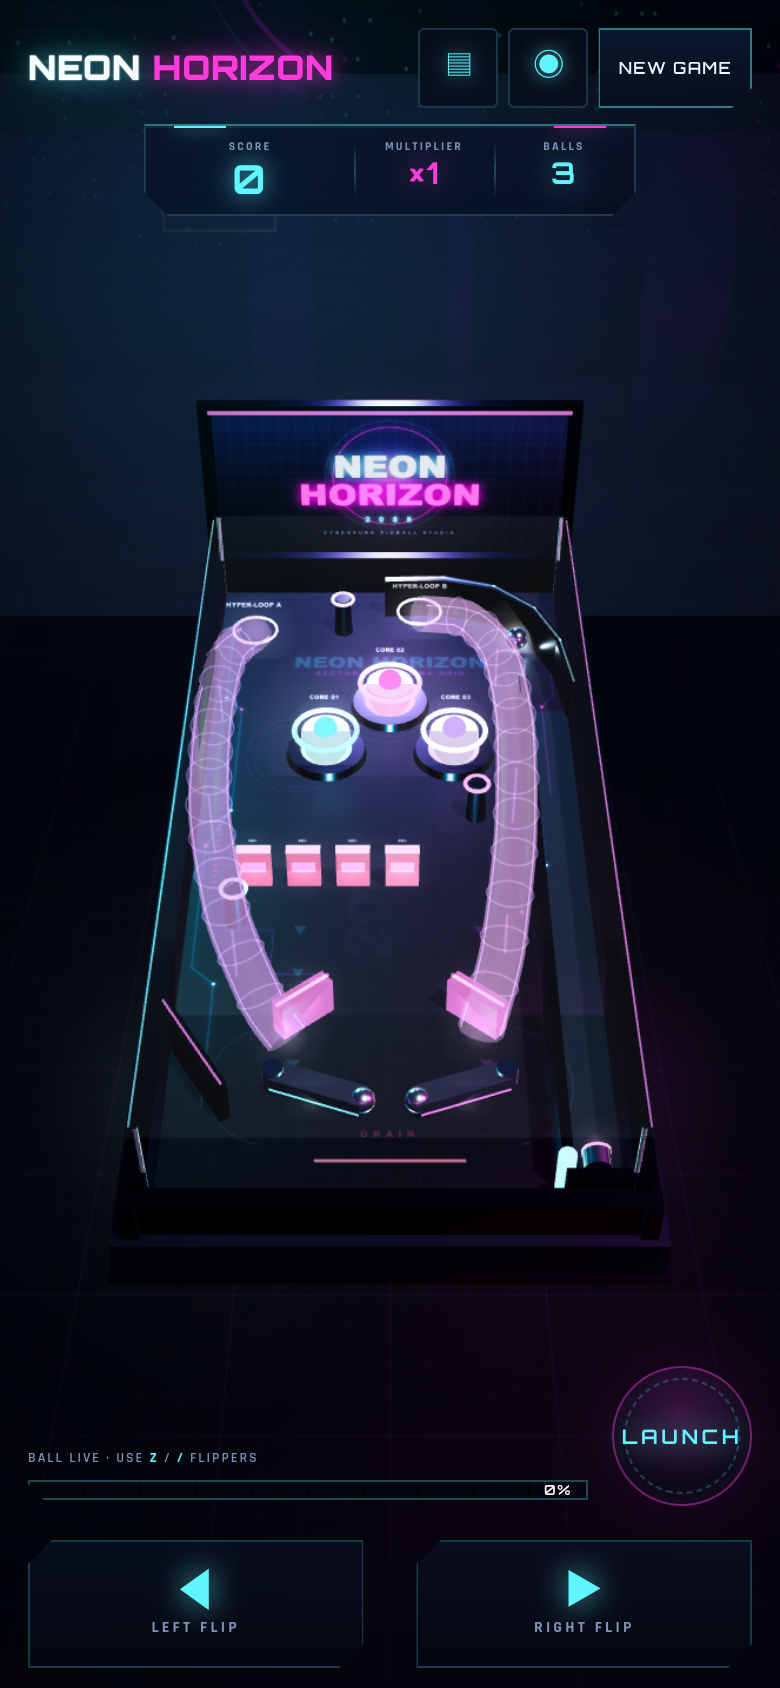
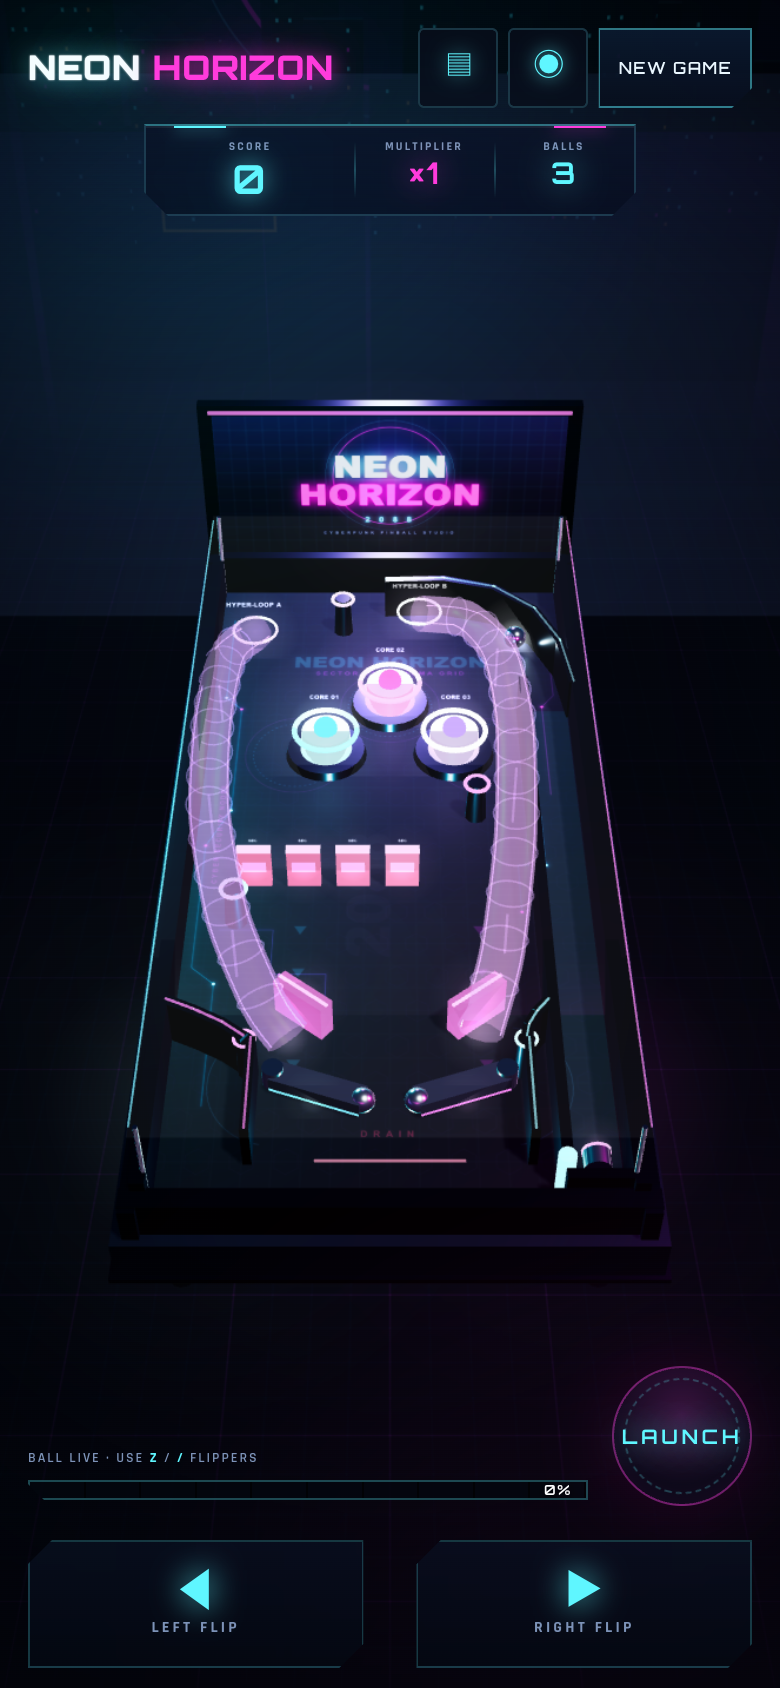
Rebuild lower playfield with bouncy walls and return guides

diff --git a/script.js b/script.js
@@ -1607,7 +1607,10 @@
       tableGroup.add(strip);
     }
 
-    // Outlane funnels toward the drain
+    // Lower side return guides. These replace the old outlane funnels: a ball
+    // coming down the side wall is deflected back toward the flippers instead
+    // of being escorted straight to the drain. The rounded end posts keep the
+    // guide from forming a sharp pinch point.
     function angledWall(x1, z1, x2, z2, color) {
       var dx = x2 - x1, dz = z2 - z1;
       var len = Math.sqrt(dx * dx + dz * dz);
@@ -1618,8 +1621,49 @@
       strip.rotation.y = ang;
       tableGroup.add(strip);
     }
-    angledWall(-5.0, 6.25, -3.55, 8.55, 0xff3bdc);
-    // The right-hand shooter lane divider already forms this side of the playfield.
+
+    function returnPost(x, z, color) {
+      var post = new THREE.Mesh(new THREE.CylinderGeometry(0.18, 0.21, 1.15, 12), MAT.chassisEdge);
+      post.position.set(x, 0.575, z);
+      addMesh(post);
+      var ring = new THREE.Mesh(new THREE.TorusGeometry(0.23, 0.04, 8, 18), neonMaterial(color, 1.9));
+      ring.rotation.x = Math.PI / 2;
+      ring.position.set(x, 1.16, z);
+      addMesh(ring, false, false);
+      var body = new CANNON.Body({ mass: 0, material: phys.wall });
+      addUprightCylinder(body, 0.18, 0.21, 1.15, 12);
+      body.position.set(x, 0.575, z);
+      body.userData = { kind: "wall" };
+      world.addBody(body);
+    }
+
+    function returnGuide(points, color) {
+      for (var i = 0; i < points.length - 1; i++) {
+        var a = points[i], b = points[i + 1];
+        angledWall(a[0], a[1], b[0], b[1], color);
+      }
+      var end = points[points.length - 1];
+      returnPost(end[0], end[1], color);
+    }
+
+    returnGuide([
+      [-4.95, 6.2], [-4.3, 6.5], [-3.65, 6.86], [-3.15, 7.25]
+    ], 0xff3bdc);
+    returnGuide([
+      [3.5, 6.2], [3.22, 6.55], [3.02, 6.92], [2.95, 7.25]
+    ], 0x5ff6ff);
+
+    // Seal the narrow outlane beside each flipper. The channel between this
+    // rail and the flipper pivot is narrower than a ball, so side drains are
+    // eliminated; the only way down is through the centre flipper gap.
+    function sideSeal(x, color) {
+      wall(0.1, 1.225, x, 8.475, 0, MAT.chassisEdge);
+      var strip = new THREE.Mesh(new THREE.BoxGeometry(0.05, 0.045, 2.4), pureNeon(color, 0.72));
+      strip.position.set(x, 1.26, 8.475);
+      tableGroup.add(strip);
+    }
+    sideSeal(-3.0, 0xff3bdc);
+    sideSeal(3.0, 0x5ff6ff);
 
     // Shooter lane bottom neon accent
     var laneBottom = new THREE.Mesh(new THREE.BoxGeometry(1.5, 0.06, 0.06), pureNeon(0xff3bdc, 0.8));
@@ -1639,7 +1683,7 @@
       addMesh(ring, false, false);
 
       var body = new CANNON.Body({ mass: 0, material: phys.wall });
-      body.addShape(new CANNON.Cylinder(0.27, 0.3, 1.15, 12));
+      addUprightCylinder(body, 0.27, 0.3, 1.15, 12);
       body.position.set(p[0], 0.575, p[1]);
       body.userData = { kind: "wall" };
       world.addBody(body);
@@ -1679,8 +1723,8 @@
     phys.sling = new CANNON.Material("sling");
 
     world.addContactMaterial(new CANNON.ContactMaterial(phys.ball, phys.table, { friction: 0.04, restitution: 0.16 }));
-    world.addContactMaterial(new CANNON.ContactMaterial(phys.ball, phys.wall, { friction: 0.0, restitution: 0.62 }));
-    world.addContactMaterial(new CANNON.ContactMaterial(phys.ball, phys.bumper, { friction: 0.0, restitution: 0.9 }));
+    world.addContactMaterial(new CANNON.ContactMaterial(phys.ball, phys.wall, { friction: 0.0, restitution: 0.8 }));
+    world.addContactMaterial(new CANNON.ContactMaterial(phys.ball, phys.bumper, { friction: 0.0, restitution: 0.92 }));
     world.addContactMaterial(new CANNON.ContactMaterial(phys.ball, phys.flipper, { friction: 0.04, restitution: 0.48 }));
     world.addContactMaterial(new CANNON.ContactMaterial(phys.ball, phys.target, { friction: 0.0, restitution: 0.4 }));
     world.addContactMaterial(new CANNON.ContactMaterial(phys.ball, phys.sling, { friction: 0.0, restitution: 0.65 }));
@@ -1691,6 +1735,14 @@
     floorBody.position.set(0, -0.3, 0);
     floorBody.userData = { kind: "table" };
     world.addBody(floorBody);
+
+    // The visual glass top is also a real ceiling. It keeps a hard flipper or
+    // bumper pop from launching the ball over the side rails and off the table.
+    var ceilingBody = new CANNON.Body({ mass: 0, material: phys.wall });
+    ceilingBody.addShape(new CANNON.Box(new CANNON.Vec3(5.1, 0.08, 11.0)));
+    ceilingBody.position.set(0, 2.8, 0);
+    ceilingBody.userData = { kind: "glass" };
+    world.addBody(ceilingBody);
   }
 
   function addStaticBox(hx, hy, hz, x, y, z, material, rotY, userData) {
@@ -1701,6 +1753,15 @@
     body.userData = userData || { kind: "wall" };
     world.addBody(body);
     return body;
+  }
+
+  // A Cannon.js Cylinder is built along Z. Rotate it so a visual upright post
+  // gets a genuinely upright collider.
+  function addUprightCylinder(body, radiusTop, radiusBottom, height, segments) {
+    var shape = new CANNON.Cylinder(radiusTop, radiusBottom, height, segments || 16);
+    var q = new CANNON.Quaternion();
+    q.setFromAxisAngle(new CANNON.Vec3(1, 0, 0), -Math.PI / 2);
+    body.addShape(shape, new CANNON.Vec3(0, 0, 0), q);
   }
 
   /* ==========================================================================
@@ -1757,7 +1818,7 @@
       group.add(label);
 
       var body = new CANNON.Body({ mass: 0, material: phys.bumper });
-      body.addShape(new CANNON.Cylinder(0.9, 0.9, 1.3, 16));
+      addUprightCylinder(body, 0.9, 0.9, 1.3, 16);
       body.position.set(def.x, 0.65, def.z);
       body.userData = { kind: "bumper", index: index, cooldown: 0 };
       world.addBody(body);
@@ -1958,7 +2019,7 @@
     [-1, 1].forEach(function (side) {
       var x = side * 1.95;
       var z = 5.8;
-      var rot = side * -0.68;
+      var rot = side * 0.68;
       var mat = new THREE.MeshStandardMaterial({
         color: 0x0e1422,
         emissive: 0xff2bd6,
@@ -1999,14 +2060,12 @@
         try { impact = Math.abs(event.contact.getImpactVelocityAlongNormal()); } catch (err) { impact = 1.4; }
         if (impact < 1.0) return;
         sling.cooldown = 0.25;
-        var dx = ball.body.position.x - x;
-        var dz = ball.body.position.z - z;
-        var len = Math.sqrt(dx * dx + dz * dz) || 1;
-        var kick = 0.62 + clamp(impact * 0.025, 0, 0.4);
-        ball.body.applyImpulse(
-          new CANNON.Vec3((dx / len) * kick - side * 0.12, 0.05, (dz / len) * kick + 0.22),
-          new CANNON.Vec3(0, 0, 0)
-        );
+        var inward = side === -1 ? 1 : -1;
+        var kick = 2.9 + clamp(impact * 0.35, 0, 1.8);
+        ball.body.velocity.x = inward * kick + ball.body.velocity.x * 0.15;
+        ball.body.velocity.z = -2.7 - clamp(impact * 0.15, 0, 1.2) + ball.body.velocity.z * 0.15;
+        ball.body.velocity.y = Math.max(ball.body.velocity.y, 0.28);
+        ball.body.angularVelocity.set(ball.body.velocity.z / TABLE.ballR, 0, -ball.body.velocity.x / TABLE.ballR);
         sling.flash = 1;
         game.combo++;
         addScore(120, true);
@@ -2968,8 +3027,12 @@
 
       var outside = p.y < -2.5 || Math.abs(p.x) > 6.4 || p.z > 12.4 || p.z < -12.4;
       var inDrain = p.x < 3.55 && p.z > 9.7 && p.y < 1.6;
-      if (outside || inDrain) {
+      if (inDrain) {
         loseBall();
+      } else if (outside) {
+        // A ball that leaves the cabinet through a seam or over the top is a
+        // table fault, not a drain. Put it back in the railgun without charge.
+        recoverBall("auto");
       } else {
         updateBallRecovery(dt);
       }

diff --git a/STATE.md b/STATE.md
@@ -4,8 +4,8 @@
 | --- | --- |
 | Project | NEON HORIZON 2088 — Cyberpunk 3D Pinball Studio (`neon-horizon-2088`) |
 | Started | 2026-11-01 03:47:45 UTC |
-| Packaged | 2026-11-01 04:49:14 UTC |
-| Duration | **1h 1m 28s** (3,688 seconds) |
+| Packaged | 2026-11-01 05:15:53 UTC |
+| Duration | **1h 28m 7s** (5,287 seconds) |
 | Harness | OpenCode 2.2.5 |
 | Model | DeepSeek V4.1 Flash (`opencode-go/deepseek-v4.1-flash`) |
 | Session | `ses_e6ac7942effe0GS7Yi86hbJntl` |
@@ -16,31 +16,34 @@
 
 | Metric | Tokens |
 | --- | ---: |
-| Input | 536,208 |
-| Output | 136,830 |
-| Reasoning | 133,503 |
-| **Total (input + output + reasoning)** | **806,541** |
-| Cache read | 60,157,568 |
+| Input | 642,355 |
+| Output | 159,876 |
+| Reasoning | 189,234 |
+| **Total (input + output + reasoning)** | **991,465** |
+| Cache read | 81,980,288 |
 | Cache write | 1,218 |
-| Total including cache | 60,965,327 |
+| Total including cache | 82,972,971 |
 
-> Snapshot taken from the OpenCode session record when the project was packaged at 2026-11-01 04:49:14 UTC. The final commit, push, Pages verification and closing response happen outside this snapshot, so the live session totals will be marginally higher. Total cost reported by the session: **$0.00**.
+> Snapshot taken from the OpenCode session record when the project was packaged at 2026-11-01 05:15:53 UTC. The final commit, push, Pages verification and closing response happen outside this snapshot, so the live session totals will be marginally higher. Total cost reported by the session: **$0.00**.
 
 ## What was built
 
 - A complete 3D cyberpunk pinball game in three modular files:
   - `index.html` — 14,025 bytes, 263 lines
   - `style.css` — 44,081 bytes, 1937 lines
-  - `script.js` — 126,909 bytes, 3649 lines
+  - `script.js` — 129,844 bytes, 3712 lines
 - An inclined 6.6° glass-topped cabinet with a matte-black chassis, chrome rails, legs, backglass marquee, neon underglow, city skyline and grid floor.
 - Procedural playfield art: circuit traces, node rings, lane arrows, warning bands and a sector watermark, drawn to a 1024 × 2048 canvas.
-- Three Quantum Plasma Cores (cyan, magenta, violet) with point-light flashes, emissive pulses, scale pops, spark bursts and outward physics kicks.
+- Three Quantum Plasma Cores (cyan, magenta, violet) with point-light flashes, emissive pulses, scale pops, spark bursts and outward physics kicks. Physics uses upright cylinder colliders.
 - Four Cyber Security drop targets: scoring hits, bank clear bonus, multiplier increase up to ×8 and timed re-arm. Re-arm is deferred if a live ball is in the bank.
 - Two translucent neon-purple Hyper-Loops with trigger sensors, Catmull-Rom rail rides and tangent release toward the flippers.
 - Railgun plunger with keyboard hold/release and touch hold/drag; spring compression animation, charge meter and rising charge oscillator.
 - Dual kinematic flippers with pivots, angular velocity transfer, neon edges and key/touch mapping.
+- A real lower third based on the standard Italian-bottom layout: inward/up-table slingshot snap kicks, inlane return guides, outlane guide posts and sealed side lanes. Only the centre flipper gap drains.
+- Bouncy side walls (0.8 restitution) so the ball rebounds off the left and right rails instead of sticking.
+- A glass-ceiling collider that keeps hard flipper or bumper pops on the table; a ball that leaves the cabinet is recovered to the railgun without losing a ball.
 - Chrome fusion ball with a generated reflection environment, dynamic glow, point light and comet trail.
-- Slingshots, pegs, outlanes, drain detection and 120 Hz fixed-step simulation.
+- Outlane-side return guides and sealed side lanes, plus pegs, drain detection and 120 Hz fixed-step simulation.
 - **Anti-trap recovery:** a displacement watchdog returns a ball that has made no progress for 3.5 s to the shooter lane without spending a ball; **R** and the **RECOVER STUCK BALL** button trigger the same recovery manually. A deliberate flipper cradle resets the watchdog.
 - **Right-side clearance:** the bumper, slingshot and peg are positioned more than one ball diameter from the shooter-lane divider, eliminating the pinch points that could wedge the ball against the right wall.
 - 100% synthesised Web Audio: ambient hum, laser/plasma bumper voices, flipper thunks, target chirps, loop whooshes, drain, multiplier arpeggio, extra ball and game-over chord.
@@ -57,19 +60,24 @@
 - Headless Chrome end-to-end runs verified:
   - full-charge railgun launch through the curved lane guide,
   - Hyper-Loop capture, rail ride and flipper-side release,
-  - plasma core hit, light flash, sparks and outward kick,
+  - plasma core hit, light flash, sparks and outward kick with an upright collider,
   - drop-target hit, bank clear, multiplier increase and re-arm,
   - left/right flipper motion and ball momentum transfer,
-  - slingshot hits,
+  - slingshot hits with a strong inward/up-table snap,
   - drain → ball countdown → respawn,
+  - left and right wall rebound with reversed horizontal velocity,
+  - side return guides feeding balls from the side rails back to the flippers,
+  - sealed side outlanes; a forced centre drain still starts the countdown and game over,
+  - glass ceiling keeping a popped ball under the glass,
+  - table-escape recovery preserving the ball count,
+  - automatic anti-trap recovery after 3.5 s of no progress,
+  - manual **R** and **RECOVER STUCK BALL** recovery preserving score and ball count,
   - three-ball game over, auto-archive, final summary and archive rank,
   - `neon_horizon_scores.json` export and merge import,
   - callsign, audio mute and leaderboard persistence,
   - mobile touch launch and touch flippers,
   - viewport resize 1600×1000 → 768×1024 → 390×844 → 320×568,
-  - right-side bumper/sling/peg clearance against the shooter-lane divider,
-  - automatic anti-trap recovery after 3.5 s of no progress,
-  - manual **R** and **RECOVER STUCK BALL** recovery preserving score and ball count,
+  - 25-second random run with no side drains,
   - **0** uncaught exceptions and **0** console errors in the final run.
 - Screenshots: `screenshot.png` (1600×1000), `screenshot-mobile.png` (390×844 @2×), `screenshot-start.png` (1600×1000).
 
@@ -79,14 +87,14 @@
 | --- | ---: |
 | `index.html` | 14,025 bytes |
 | `style.css` | 44,081 bytes |
-| `script.js` | 126,909 bytes |
-| `README.md` | 17,570 bytes |
-| `screenshot.png` | 841,557 bytes |
-| `screenshot-mobile.png` | 779,100 bytes |
-| `screenshot-start.png` | 568,112 bytes |
+| `script.js` | 129,844 bytes |
+| `README.md` | 19,728 bytes |
+| `screenshot.png` | 841,136 bytes |
+| `screenshot-mobile.png` | 779,331 bytes |
+| `screenshot-start.png` | 568,146 bytes |
 
 ## Credits
 
-Built with [OpenCode](https://opencode.ai) 2.2.5 and **DeepSeek V4.1 Flash** (`opencode-go/deepseek-v4.1-flash`) in a single agent session. The game code, cabinet and playfield geometry, procedural textures, physics tuning, HUD, audio synthesis, score archive, anti-trap recovery and verification harness were generated for this project.
+Built with [OpenCode](https://opencode.ai) 2.2.5 and **DeepSeek V4.1 Flash** (`opencode-go/deepseek-v4.1-flash`) in a single agent session. The game code, cabinet and playfield geometry, procedural textures, physics tuning, HUD, audio synthesis, score archive, lower-third redesign, anti-trap recovery and verification harness were generated for this project.
 
 Runtime libraries: [Three.js](https://threejs.org/) r128 (MIT) and [Cannon.js](https://schteppe.github.io/cannon.js/) 0.6.2 (MIT). Typefaces: **Orbitron** and **Rajdhani** from Google Fonts (SIL OFL 1.1). No image, texture, audio or 3D model assets were used. See [THIRD_PARTY_NOTICES.md](THIRD_PARTY_NOTICES.md).

diff --git a/README.md b/README.md
@@ -50,6 +50,9 @@ The result runs directly from `index.html` and deploys cleanly to GitHub Pages.
 - **Chrome fusion ball** — a high-metalness sphere with a procedurally generated reflection environment, a soft light attached to the ball, a pulsing halo and a comet trail. Zero-friction wall contacts and high restitution keep bounces lively.
 - **Railgun launch accelerator** — hold **Space** (or hold/drag the on-screen **LAUNCH** pad) to compress the spring. The charge meter fills, the charge oscillator rises in pitch and the plunger physically pulls back. Release to apply a linear impulse up the shooter lane.
 - **Dual flippers** — left **Z / ←**, right **/ / →**. Kinematic bodies rotate around their pivot at a controlled angular velocity; the moving arm imparts momentum through the solver. Active flippers light their neon edge.
+- **A real lower third** — slingshots angled inward like a standard Italian-bottom table, each with a snap kick toward the centre and up-table. Return guides catch side balls and feed them back to the flippers instead of escorting them down an outlane.
+- **Sealed side lanes** — the narrow outlanes beside the flippers are closed by guide posts and side rails, so the only drain is the centre gap between the flipper tips. The table is deliberately more forgiving than a real machine.
+- **Bouncy cabinet** — side-wall restitution is 0.8, so the ball visibly rebounds off the left and right walls. A real glass-ceiling collider stops hard flipper or bumper pops from launching the ball over the rails.
 - **120 Hz fixed-step simulation** — an accumulator keeps the simulation stable at any display rate, with a speed clamp that prevents tunnelling.
 - **Anti-trap recovery** — a displacement watchdog detects a ball that has stopped making progress (without interrupting a deliberate flipper cradle). It returns the ball to the shooter lane, preserving the score and ball count. The right-side clearances between the bumper/sling/peg and the shooter-lane divider are tuned above one ball diameter so the ball cannot wedge there, and a manual **R / RECOVER STUCK BALL** control is always available.
 - **Live table behaviour** — bumper kicks, slingshot kicks, drain detection, camera shake, spark bursts and neon light flashes.
@@ -61,8 +64,8 @@ The result runs directly from `index.html` and deploys cleanly to GitHub Pages.
 | **3 Quantum Plasma Cores** | Cyan, magenta and electric-violet cylinder bumpers. A ball impact adds score, flashes a point light, pulses the core/ring scale, emits sparks and kicks the ball outward. |
 | **Cyber Security Nodes** | Four vertical drop targets. Each hit sinks a node and scores. Clearing the whole bank raises the multiplier (up to ×8), awards a bonus and re-arms the bank after a short delay. |
 | **Hyper-Loops** | Two translucent neon-purple wire tubes. The ball is captured at the glowing entrance, rides the curve with a rising synth whoosh, then is released toward the flippers with a bonus. |
-| **Slingshots** | Angled live kickers above the flippers, with magenta flash and a short cooldown. |
-| **Outlanes & drain** | The funnel walls, flipper gap and drain line are real colliders. Three balls per session; the game over screen archives the score. |
+| **Slingshots** | Angled inward/up-table live kickers above the flippers, with a strong snap, magenta flash and a short cooldown. |
+| **Inlane returns & drain** | Lower return guides catch side balls and feed the flippers. The side outlanes are sealed, so only the centre flipper gap drains. Three balls per session; the game over screen archives the score. |
 | **Extra ball** | Cross 100,000 points for one extra ball, once per session. |
 
 ### Audio
@@ -223,11 +226,17 @@ while (accumulator >= 1 / 120 && steps < 6) {
 }
 ```
 
-The solver runs 22 iterations with a speed clamp of 28 units/s. The ball is a sphere with low damping; wall contacts use zero friction and 0.62 restitution, bumper contacts use 0.9 restitution, and the playfield uses just enough friction to make the ball roll naturally.
+The solver runs 22 iterations with a speed clamp of 28 units/s. The ball is a sphere with low damping; wall contacts use zero friction and 0.8 restitution, bumper contacts use 0.92 restitution, and the playfield uses just enough friction to make the ball roll naturally.
 
 ### Flippers
 
 Each flipper is a **kinematic** body with a box shape offset from its pivot. Every physics step the target angle (rest or active) is approached at a capped angular velocity; the body quaternion and `angularVelocity` are updated before `world.step`, so the moving arm transfers momentum to the ball through the solver. The same angle drives the visual arm, so there is no render/physics drift.
+
+### Lower third
+
+The layout follows the standard pinball “Italian bottom”: two flippers, two slingshots above them, inlane guide rails, and outlane posts on the far sides. In this arcade build the narrow outlanes are sealed, so a ball that comes down the side is returned to the flippers rather than lost. Slingshots kick inward and up-table, and the outer walls use 0.8 restitution so side impacts are lively rather than sticky. A glass-ceiling collider keeps airborne balls on the table.
+
+The lower-third proportions were checked against the standard Gottlieb Mustang / modern Stern SIO (slingshot–inlane–outlane) layout documented in the [Pinball Makers construction guide](https://pinballmakers.com/wiki/Construction).
 
 ### Hyper-Loop rail
 
@@ -308,6 +317,11 @@ Automated Chrome end-to-end runs additionally verified:
 - Slingshot hits.
 - Drain → ball countdown → respawn.
 - Right-side wedge clearance at the bumper, slingshot and peg against the shooter-lane divider.
+- Left and right wall rebound: the ball leaves the wall with reversed horizontal velocity instead of sticking.
+- Side return guides feed balls from the side rails back to the flippers. A 25-second random run produced no side drains.
+- Sealed side outlanes, with a forced centre drain still starting the ball-countdown and game-over flow.
+- Glass-ceiling collision and table-escape recovery: a ball popped upward stays under the glass; a ball that leaves the cabinet is returned to the railgun without losing a ball.
+- Upright cylinder colliders for the plasma cores and pegs, and inward/up-table slingshot snap kicks.
 - Automatic anti-trap recovery after 3.5 s of no progress, and manual recovery via **R** and the **RECOVER STUCK BALL** button, with score and ball count preserved.
 - Three-ball game over, auto-archive, final summary and leaderboard rank.
 - `neon_horizon_scores.json` export and a merge import with invalid entries rejected.
